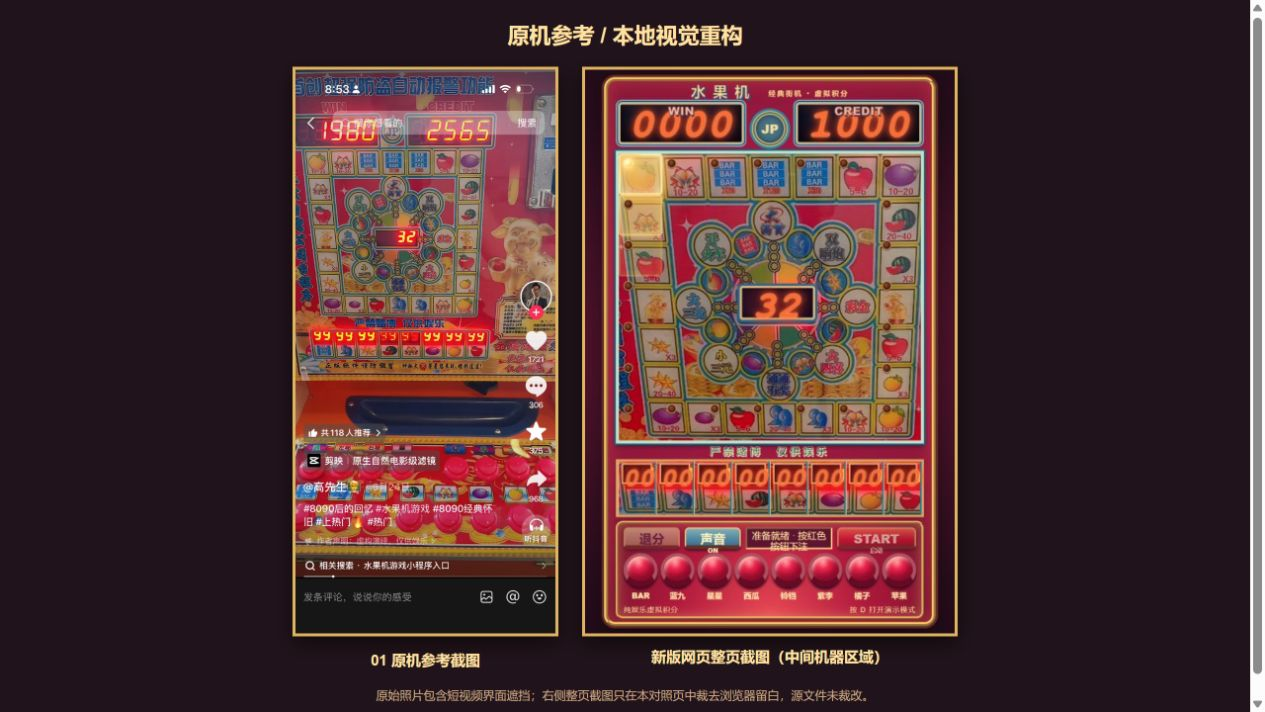
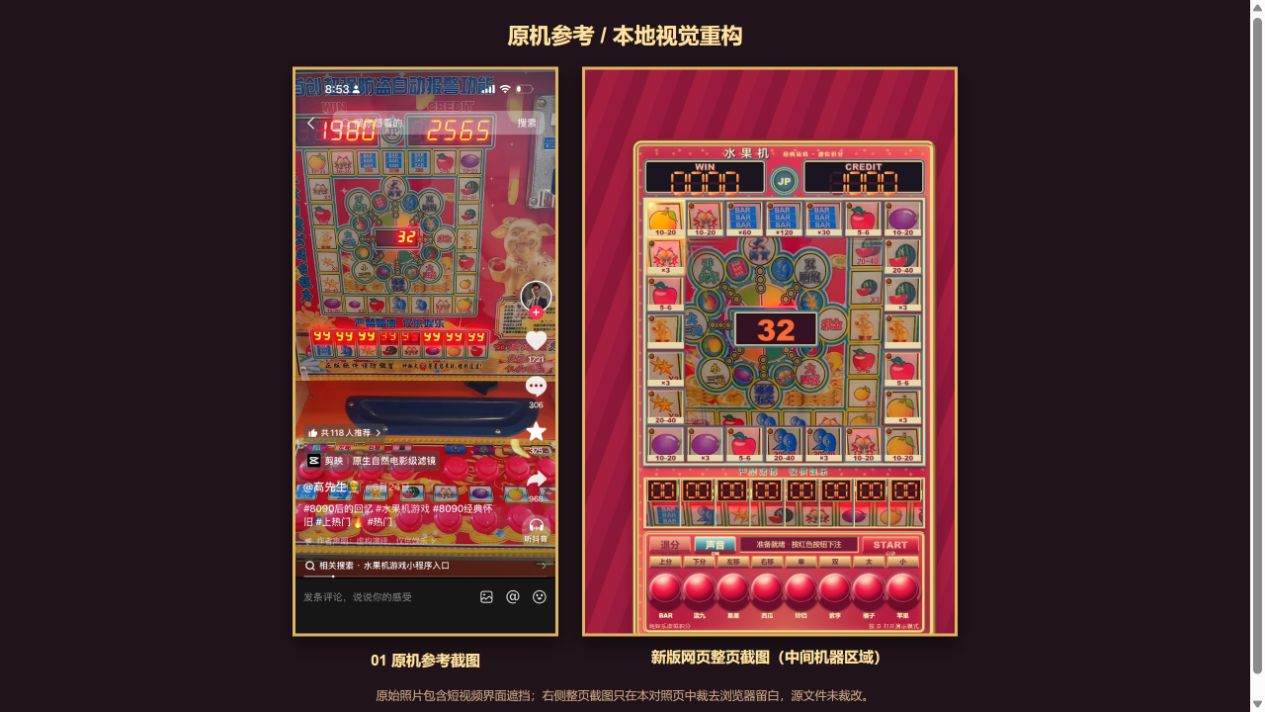
Refine original arcade panel texture

Changed region(s): [[0.4625, 0.0927, 0.7708, 0.8961]]

diff --git a/css/texture.css b/css/texture.css
@@ -1,0 +1,47 @@
+/* The printed face and plastic controls are intentionally dense like the reference panel. */
+body{background:repeating-linear-gradient(110deg,#8d1739 0 24px,#a51f3f 25px 49px,#9b1b3e 50px 74px)}
+.machine{width:min(700px,calc((100svh - 20px)*.48),96vw)}
+.machine{border:7px ridge #f0c477;background:radial-gradient(circle at 18% 54%,#ffd36b55 0 2px,transparent 3px) 0 0/28px 28px,radial-gradient(circle at 82% 24%,#fff0ab55 0 2px,transparent 3px) 0 0/39px 39px,linear-gradient(125deg,#bc2545,#df3855 31%,#f05d5a 51%,#bb1d42 82%,#8e1a38);box-shadow:0 0 0 3px #7f2d2d,0 7px 18px #4d0b20a3,inset 0 0 0 2px #f5d484,inset 0 0 24px #ffde8055}
+.machine-heading{color:#ffedb4;text-shadow:1px 2px #7b1d34,2px 2px #326385}
+.score-box{border:3px double #87b8c4;background:#1b1522;box-shadow:inset 0 0 0 2px #e6c079,inset 0 0 5px #0e0a11}
+.score-box strong{display:flex;align-items:center;justify-content:center;gap:2px;padding-top:18px;line-height:1;white-space:nowrap}
+.led-digits{font-family:Arial,sans-serif;font-style:normal;letter-spacing:0;text-shadow:none}
+.digit{--dw:clamp(15px,1.8vw,27px);position:relative;display:inline-block;width:var(--dw);height:calc(var(--dw)*1.48);flex:none}
+.segment{position:absolute;display:block;background:#50212a;opacity:.65}
+.segment.on{background:linear-gradient(125deg,#ffdb7a,#ff8739 53%,#f3431e);opacity:1;box-shadow:0 0 3px #ff742b,0 0 5px #e6321d}
+.segment.a,.segment.g,.segment.d{left:17%;width:66%;height:11%;clip-path:polygon(13% 0,87% 0,100% 50%,87% 100%,13% 100%,0 50%)}
+.segment.a{top:0}.segment.g{top:44%}.segment.d{bottom:0}
+.segment.b,.segment.c,.segment.e,.segment.f{width:14%;height:39%;clip-path:polygon(0 12%,50% 0,100% 12%,100% 88%,50% 100%,0 88%)}
+.segment.b{right:0;top:8%}.segment.c{right:0;bottom:8%}.segment.e{left:0;bottom:8%}.segment.f{left:0;top:8%}
+.playfield{border-color:#f0d89b;outline-color:#4a7f96;background:#b3214b}
+.board-photo{filter:saturate(1.27) contrast(1.07)}
+.center-feature-photo{position:absolute;z-index:1;left:13%;top:11%;width:74%;height:78%;background-color:#b7234b;background-image:url('../assets/images/center-feature-board.jpg');background-repeat:no-repeat;background-size:126.3% 111.7%;background-position:20% 23%;mask-image:radial-gradient(ellipse at center,#000 72%,transparent 100%);filter:saturate(1.25) contrast(1.08)}
+.board{z-index:2}.feature-led{z-index:3;left:32%;top:42.5%;width:30%;height:13%;border:3px solid #e1bf80;background:#341224;box-shadow:0 0 0 3px #2f7192,inset 0 0 7px #170e19}
+.tile{overflow:visible;border:2px solid #8d2d36;border-radius:2px;background:#f0deb3;box-shadow:inset 0 0 0 2px #428398,inset 0 0 0 4px #e5d096}
+.tile:nth-child(3n + 2){border-color:#397c98;box-shadow:inset 0 0 0 2px #a84743,inset 0 0 0 4px #e5d096}
+.tile-art{position:absolute;left:4px;right:4px;top:3px;bottom:12px;background-color:#eedbb6;background-image:var(--symbol-url);background-repeat:no-repeat;background-size:100% 100%;background-position:center;filter:saturate(1.2) contrast(1.08)}
+.tile-print{position:absolute;left:1px;right:1px;bottom:1px;height:11px;color:#83242f;background:#ead8aaed;text-align:center;font-size:clamp(7px,1vw,11px);font-weight:900;line-height:11px;text-shadow:0 1px #fff1cd}
+.tile::before{z-index:3;left:2px;top:2px;width:10px;height:10px;background:radial-gradient(circle at 35% 30%,#a16b35,#8c2921 55%,#4d1716);border:1px solid #f0cb75}
+.tile.lit .tile-art{filter:brightness(1.33) saturate(1.75)}.tile.trail-1 .tile-art{filter:brightness(1.16) saturate(1.55)}
+.bet-section{border-color:#f5d185;box-shadow:inset 0 0 0 2px #397e9b,0 2px 3px #7b1632}
+.bet-strip{height:80px;background-size:151% 270%;background-position:8.5% 12%}
+.bet-lane{border-right:2px solid #35758c;border-left:2px solid #f5d084;background:#ffe1a710}
+.bet-led{top:0;height:48%;left:3%;right:3%;display:flex;align-items:center;justify-content:center;gap:1px;background:#3f101bf5;border:2px ridge #f2c977;box-shadow:inset 0 0 4px #10070c}
+.bet-led .digit{--dw:clamp(10px,1.48vw,18px)}
+.bet-lane.active .bet-led{background:#64131b;box-shadow:inset 0 0 4px #12060d,0 0 5px #ffe9a0}
+.control-deck{border-color:#f5cd79;background:radial-gradient(circle at 50% 100%,#fcbd6b66,transparent 60%),linear-gradient(#e94155,#ba1e43 52%,#b61b41);box-shadow:inset 0 0 0 2px #f8da8a,inset 0 0 13px #ffe6a34d}
+.function-row{grid-template-columns:70px 70px 1fr 96px}.function-key,.start-key{border:2px solid #eac88a;border-bottom:5px solid #7a3540;border-radius:4px;background:linear-gradient(#fff0bf,#e1ad75 62%,#b7675f);box-shadow:inset 0 1px #fff9d2,0 2px 2px #7b1430}
+.sound-key{background:linear-gradient(#c6e8e9,#5e9ea7 56%,#386785)}
+.start-key{background:linear-gradient(#ffab77,#e13c40 30%,#c30b32 75%,#9a0a2a);border-bottom-color:#711126}
+.status{border-color:#e5b96f;background:#771839;color:#ffe8aa}
+.function-bank{display:grid;grid-template-columns:repeat(8,minmax(0,1fr));gap:3px;margin-top:5px}
+.function-bank button{height:22px;padding:0;border:2px solid #cb9b55;border-bottom:4px solid #733547;border-radius:3px;background:linear-gradient(#fbdb9d,#d59d62 58%,#ac5a58);color:#6b263b;font-weight:900;font-size:11px;box-shadow:inset 0 1px #fff0be;opacity:1;cursor:default}
+.bet-keys{margin-top:4px;gap:2px}
+.button-cap{position:relative;width:115%;max-width:78px;aspect-ratio:1;border:4px solid #b84359;border-bottom:9px solid #6d0d2b;border-radius:50%;background:radial-gradient(circle at 42% 24%,#ffb9b3 0,#ff6b71 16%,#ef1744 38%,#c50836 69%,#850b2b 100%);box-shadow:inset -6px -9px 9px #690926,inset 2px 3px 4px #ffd3ba,0 5px 3px #611029}
+.button-cap::before{content:"";position:absolute;left:17%;top:9%;width:48%;height:22%;border-radius:50%;background:#fff3d5bb;filter:blur(3px);transform:rotate(-17deg)}
+.button-cap::after{content:"";position:absolute;inset:5%;border-radius:50%;border:1px solid #ff9a9b91}
+.bet-key:active .button-cap{transform:translateY(4px);border-bottom-width:5px;box-shadow:inset -4px -5px 7px #690926,0 1px 1px #611029}
+.bet-key.active .button-cap{box-shadow:inset -6px -9px 9px #690926,inset 2px 3px 4px #ffd3ba,0 0 10px #ffdf8a}
+.bet-key-label{font-size:clamp(7px,1.05vw,10px);color:#fff1bd;text-shadow:1px 1px #9b243a}
+@media(max-height:800px) and (min-width:601px){.machine{width:min(700px,calc((100svh - 14px)*.56),96vw)}.bet-strip{height:68px}.function-bank button{height:18px;font-size:9px}.button-cap{width:115%}.score-box{height:55px}.score-box strong{padding-top:17px}.score-medallion{width:42px;height:42px}.scoreboard{grid-template-columns:1fr 42px 1fr}}
+@media(max-width:600px){.machine{border-width:4px}.score-box{height:48px}.score-box strong{padding-top:11px}.digit{--dw:clamp(12px,4.2vw,20px)}.tile-art{left:2px;right:2px;top:2px;bottom:9px}.tile-print{height:9px;line-height:9px;font-size:6px}.tile::before{width:7px;height:7px}.bet-strip{height:clamp(54px,14vw,74px)}.bet-led .digit{--dw:clamp(8px,2.9vw,14px)}.function-row{grid-template-columns:45px 45px 1fr 61px}.function-bank{gap:1px;margin-top:3px}.function-bank button{height:19px;border-width:1px;border-bottom-width:3px;font-size:8px}.button-cap{width:115%;border-width:2px;border-bottom-width:5px}.bet-key:active .button-cap{border-bottom-width:3px}.bet-key-label{font-size:6px}}

diff --git a/js/game.js b/js/game.js
@@ -4,6 +4,7 @@ import { LightEngine } from './light-engine.js';
 import { AudioManager } from './audio-manager.js';
 import { WinAnimationEngine } from './win-animation.js';
 import { setupDebug } from './debug.js';
+import { renderSevenSegment } from './led-display.js';
 
 const $ = id => document.getElementById(id);
 const machine = document.querySelector('.machine');
@@ -15,6 +16,12 @@ let credit = config.INITIAL_CREDIT, win = 0, busy = false;
 const stakes = Object.fromEntries(BET_CHANNELS.map(channel => [channel.key, 0]));
 const totalStake = () => Object.values(stakes).reduce((sum, stake) => sum + stake, 0);
 const displayNumber = value => String(value).padStart(2, '0');
+const PRINT_LABELS = [
+  '10–20','10–20','×60','×120','×30','5–6','10–20',
+  '20–40','×3','','5–6','×3',
+  '10–20','10–20','×3','20–40','5–6','×3','10–20',
+  '20–40','×3','','5–6','×3'
+];
 
 // 24 original-machine cells: top 7, right 5, bottom 7, left 5.
 const coordinates = [];
@@ -27,6 +34,8 @@ BOARD.forEach((key, i) => {
   tile.className = 'tile';
   tile.style.gridColumn = coordinates[i][0];
   tile.style.gridRow = coordinates[i][1];
+  tile.style.setProperty('--symbol-url', `url('../assets/images/symbols/${key.toLowerCase()}.png')`);
+  tile.innerHTML = `<span class="tile-art" aria-hidden="true"></span><span class="tile-print">${PRINT_LABELS[i]}</span>`;
   tile.setAttribute('aria-label', `${i + 1} ${PRIZES[key].label}`);
   board.append(tile);
 });
@@ -56,15 +65,15 @@ BET_CHANNELS.forEach(channel => {
 });
 
 function render() {
-  creditEl.textContent = String(credit).padStart(4, '0');
-  winEl.textContent = String(win).padStart(4, '0');
+  renderSevenSegment(creditEl, credit, 4);
+  renderSevenSegment(winEl, win, 4);
   startButton.disabled = busy || totalStake() === 0;
   clearButton.disabled = busy || totalStake() === 0;
   BET_CHANNELS.forEach(channel => {
     const stake = stakes[channel.key];
     const lane = betStrip.querySelector(`[data-channel="${channel.key}"]`);
     const button = betKeys.querySelector(`[data-channel="${channel.key}"]`);
-    lane.querySelector('.bet-led').textContent = displayNumber(stake);
+    renderSevenSegment(lane.querySelector('.bet-led'), displayNumber(stake), 2);
     lane.classList.toggle('active', stake > 0);
     button.classList.toggle('active', stake > 0);
     button.disabled = busy || credit < config.BET_STEP || stake >= config.MAX_BET_PER_CHANNEL;

diff --git a/visual-comparison.html b/visual-comparison.html
@@ -5,7 +5,7 @@
   <meta name="viewport" content="width=device-width, initial-scale=1">
   <title>原机与视觉重构对照</title>
   <style>
-    *{box-sizing:border-box}body{margin:0;min-height:100vh;padding:20px;background:#21131b;color:#ffe1a1;font:15px Arial,"Microsoft YaHei",sans-serif}h1{text-align:center;font-size:22px;margin:0 0 18px}.comparison{display:flex;justify-content:center;align-items:flex-start;gap:24px}.panel{margin:0;text-align:center}.panel img,.crop{height:min(80vh,640px);border:3px solid #dfb461;box-shadow:0 7px 20px #0008}.reference{width:auto}.crop{width:min(48vw,380px);overflow:hidden}.crop img{width:100%;height:100%;object-fit:cover;object-position:center;border:0;box-shadow:none}.panel figcaption{margin-top:10px;font-weight:bold}.note{text-align:center;color:#c8aa87;font-size:12px;margin-top:18px}@media(max-width:690px){.comparison{gap:8px}.panel img,.crop{height:65vh}.crop{width:48vw}h1{font-size:17px}}
+    *{box-sizing:border-box}body{margin:0;min-height:100vh;padding:20px;background:#21131b;color:#ffe1a1;font:15px Arial,"Microsoft YaHei",sans-serif}h1{text-align:center;font-size:22px;margin:0 0 18px}.comparison{display:flex;justify-content:center;align-items:flex-start;gap:24px}.panel{margin:0;text-align:center}.panel img,.crop{height:min(80vh,640px);border:3px solid #dfb461;box-shadow:0 7px 20px #0008}.reference{width:auto}.crop{width:min(48vw,380px);overflow:hidden}.crop img{width:100%;height:100%;object-fit:cover;object-position:60% center;border:0;box-shadow:none}.panel figcaption{margin-top:10px;font-weight:bold}.note{text-align:center;color:#c8aa87;font-size:12px;margin-top:18px}@media(max-width:690px){.comparison{gap:8px}.panel img,.crop{height:65vh}.crop{width:48vw}h1{font-size:17px}}
   </style>
 </head>
 <body>

diff --git a/index.html b/index.html
@@ -8,6 +8,7 @@
   <link rel="stylesheet" href="./css/game.css">
   <link rel="stylesheet" href="./css/lights.css">
   <link rel="stylesheet" href="./css/animations.css">
+  <link rel="stylesheet" href="./css/texture.css">
 </head>
 <body>
   <main class="machine" aria-label="经典实体水果机">
@@ -19,6 +20,7 @@
     </section>
     <section class="playfield" aria-label="外围奖项跑灯盘与中央功能盘">
       <div class="board-photo" aria-hidden="true"></div>
+      <div class="center-feature-photo" aria-hidden="true"></div>
       <div class="board" id="board"></div>
       <div class="feature-led led-digits" id="feature-value" aria-label="中央功能盘数值">32</div>
       <div class="center-result" id="result" aria-live="polite"></div>
@@ -33,6 +35,12 @@
         <button id="sound" class="function-key sound-key" type="button" aria-pressed="true">声音 <small>ON</small></button>
         <div class="status" id="status" role="status" aria-live="polite">准备就绪 · 按红色按钮下注</div>
         <button id="start" class="start-key" type="button">START <small>启动</small></button>
+      </div>
+      <div class="function-bank" aria-label="预留功能控制区">
+        <button type="button" disabled>上分</button><button type="button" disabled>下分</button>
+        <button type="button" disabled>左移</button><button type="button" disabled>右移</button>
+        <button type="button" disabled>单</button><button type="button" disabled>双</button>
+        <button type="button" disabled>大</button><button type="button" disabled>小</button>
       </div>
       <div class="bet-keys" id="bet-keys"></div>
       <div class="deck-footer"><span>纯娱乐虚拟积分</span><span>按 D 打开演示模式</span></div>

diff --git a/js/led-display.js b/js/led-display.js
@@ -1,0 +1,16 @@
+const segments = {
+  '0': 'abcdef', '1': 'bc', '2': 'abged', '3': 'abgcd', '4': 'fgbc',
+  '5': 'afgcd', '6': 'afgecd', '7': 'abc', '8': 'abcdefg', '9': 'abfgcd'
+};
+const order = 'abcdefg';
+
+export function renderSevenSegment(element, value, digits) {
+  const display = String(Math.max(0, Number(value) || 0)).padStart(digits, '0').slice(-digits);
+  if (element.dataset.ledValue === display) return;
+  element.dataset.ledValue = display;
+  element.setAttribute('aria-label', display);
+  element.innerHTML = [...display].map(number => {
+    const active = segments[number] || '';
+    return `<span class="digit" aria-hidden="true">${[...order].map(part => `<i class="segment ${part}${active.includes(part) ? ' on' : ''}"></i>`).join('')}</span>`;
+  }).join('');
+}

diff --git a/README.md b/README.md
@@ -19,9 +19,10 @@
 - `reference/annotated-machine-structure.jpg`：结构标注图。
 - `current-version.png`：本地网页整页截图。
 - `visual-comparison.png` 与 `visual-comparison.html`：原图与新版对照。
-- `assets/images/machine-core.jpg`、`assets/images/eight-bet-displays.jpg`：参考包中的清晰原机局部画面，作为网页奖项盘与下注窗的视觉底图。原始包未修改。
+- `assets/images/machine-core.jpg`、`assets/images/center-feature-board.jpg`、`assets/images/eight-bet-displays.jpg`：参考包中的原机局部画面，作为奖项盘、放大的中央功能盘与下注窗底图。
+- `assets/images/symbols/`：从原机局部照片裁出的九类印刷奖项符号，用于外围 24 格；原始参考包未修改。
 
-外围为 7×7 边框的 24 格顺时针跑灯，中央功能盘目前保留原机视觉与数字显示；高级功能没有接入新玩法。LED、独立下注、跑灯、音频与中奖动画仍使用现有引擎。
+外围为 7×7 边框的 24 格顺时针跑灯，中央功能盘放大并保留原机视觉与数字显示。WIN/CREDIT 和八路下注窗口为七段 LED，下注按钮为红色机械按钮造型。底部上分、下分、左移、右移、单、双、大、小只预留视觉位置，尚未接入功能。LED、独立下注、跑灯、音频与中奖动画仍使用现有引擎。
 
 ## 配置
 
